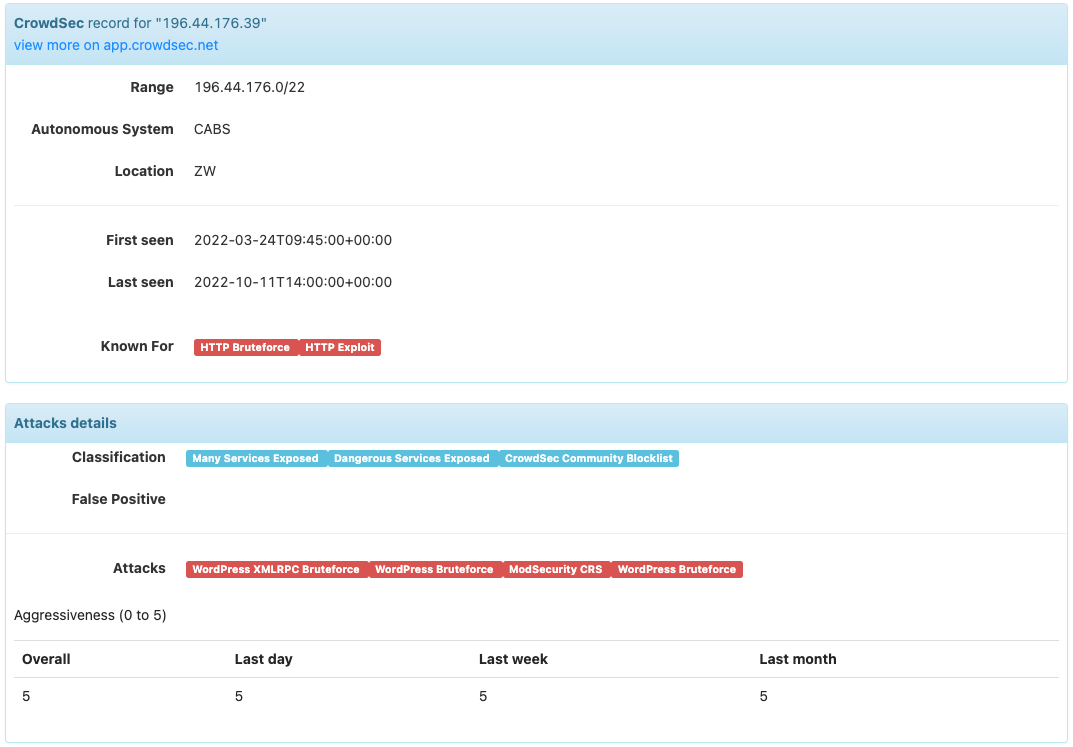
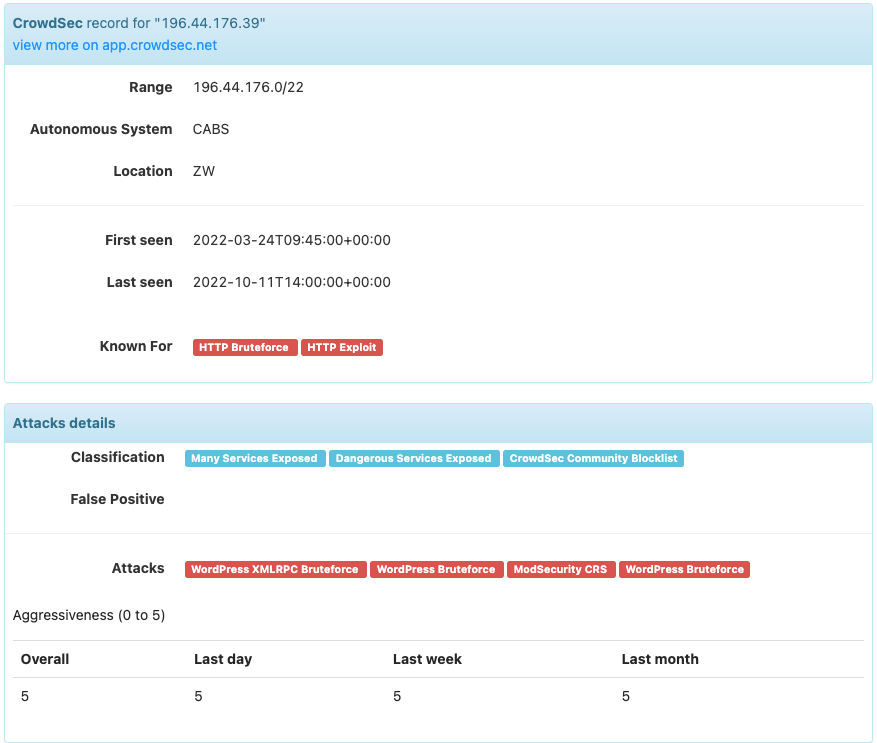
#1116 add space btw labels and change template

diff --git a/thehive-templates/Crowdsec_1_0/long.html b/thehive-templates/Crowdsec_1_0/long.html
@@ -1,0 +1,111 @@
+<style>
+    .label {
+        margin-right: 3px;
+    }
+</style>
+
+<div class="panel panel-danger" ng-if="!success || !content.ip">
+    <div class="panel-heading">
+        <strong>{{(artifact.data || artifact.attachment.name) | fang}}</strong>
+    </div>
+    <div class="panel-body">
+        {{content.message || 'Error while retrieving information'}}
+    </div>
+</div>
+
+<div ng-if="success && content.ip">
+    <div class="panel panel-info">
+        <div class="panel-heading">
+                <strong>CrowdSec</strong> record for "{{artifact.data}}"</a>
+                <br/>
+                <a target="_blank" href="https://app.crowdsec.net/cti/{{artifact.data}}">view more on app.crowdsec.net</a>
+        </div>
+        <div class="panel-body">
+            <dl class="dl-horizontal" ng-if="content.reverse_dns">
+                <dt>Reverse DNS</dt>
+                <dd class="wrap">{{content.reverse_dns}}</dd>
+            </dl>
+            <dl class="dl-horizontal" ng-if="content.ip_range">
+                <dt>Range</dt>
+                <dd class="wrap">{{content.ip_range}}</dd>
+            </dl>
+            <dl class="dl-horizontal" ng-if="content.as_name">
+                <dt>Autonomous System</dt>
+                <dd class="wrap">{{content.as_name}}</dd>
+            </dl>
+            <dl class="dl-horizontal" ng-if="content.location">
+                <dt>Location</dt>
+                <dd class="wrap">{{content.location.city}} {{content.location.country}}</dd>
+            </dl>
+            <hr>
+            <dl class="dl-horizontal" ng-if="content.history.first_seen">
+                <dt>First seen</dt>
+                <dd class="wrap">{{content.history.first_seen}}</dd>
+            </dl>
+            <dl class="dl-horizontal" ng-if="content.history.last_seen">
+                <dt>Last seen</dt>
+                <dd class="wrap">{{content.history.last_seen}}</dd>
+            </dl>
+            <br>
+            <dl class="dl-horizontal" ng-if="content.behaviors">
+                <dt>Known For</dt>
+                <dd class="wrap">
+                    <span class="label label-default label-danger" title="{{b.description}}" ng-repeat="b in ::content.behaviors">
+                        {{b.label}}
+                    </span>
+                </dd>
+            </dl>
+        </div>
+    </div>
+
+    <div class="panel panel-info">
+        <div class="panel-heading">
+            <strong>Attacks details</strong>
+        </div>
+
+        <dl class="dl-horizontal" ng-if="content.classifications.classifications">
+            <dt>Classification</dt>
+            <dd class="wrap">
+                <span class="label label-default label-info" title="{{c.description}}" ng-repeat="c in ::content.classifications.classifications">
+                    {{c.label}}
+                </span>
+            </dd>
+        </dl>
+        <dl class="dl-horizontal" ng-if="content.classifications.false_positives">
+            <dt>False Positive</dt>
+            <dd class="wrap">
+                <span class="label label-default" title="{{fp.description}}" ng-repeat="fp in ::content.classifications.false_positives">
+                    {{fp.label}}
+                </span>
+            </dd>
+        </dl>
+        <hr>
+        <dl class="dl-horizontal" ng-if="content.attack_details">
+            <dt>Attacks</dt>
+            <dd class="wrap">
+                <span class="label label-default label-danger" title="{{a.description}}" ng-repeat="a in ::content.attack_details">
+                    {{a.label}}
+                </span>
+            </dd>
+        </dl>
+
+        <div class="panel-body">
+            <p>Aggressiveness (0 to 5)
+            </p>
+            <table class="table table-hover">
+                <tr>
+                    <th>Overall</th>
+                    <th>Last day</th>
+                    <th>Last week</th>
+                    <th>Last month</th>
+                </tr>
+                <tr>
+                    <td>{{content.scores.overall.aggressiveness}}</td>
+                    <td>{{content.scores.last_day.aggressiveness}}</td>
+                    <td>{{content.scores.last_week.aggressiveness}}</td>
+                    <td>{{content.scores.last_month.aggressiveness}}</td>
+                </tr>
+            </table>
+        </div>
+    </div>
+</div>
